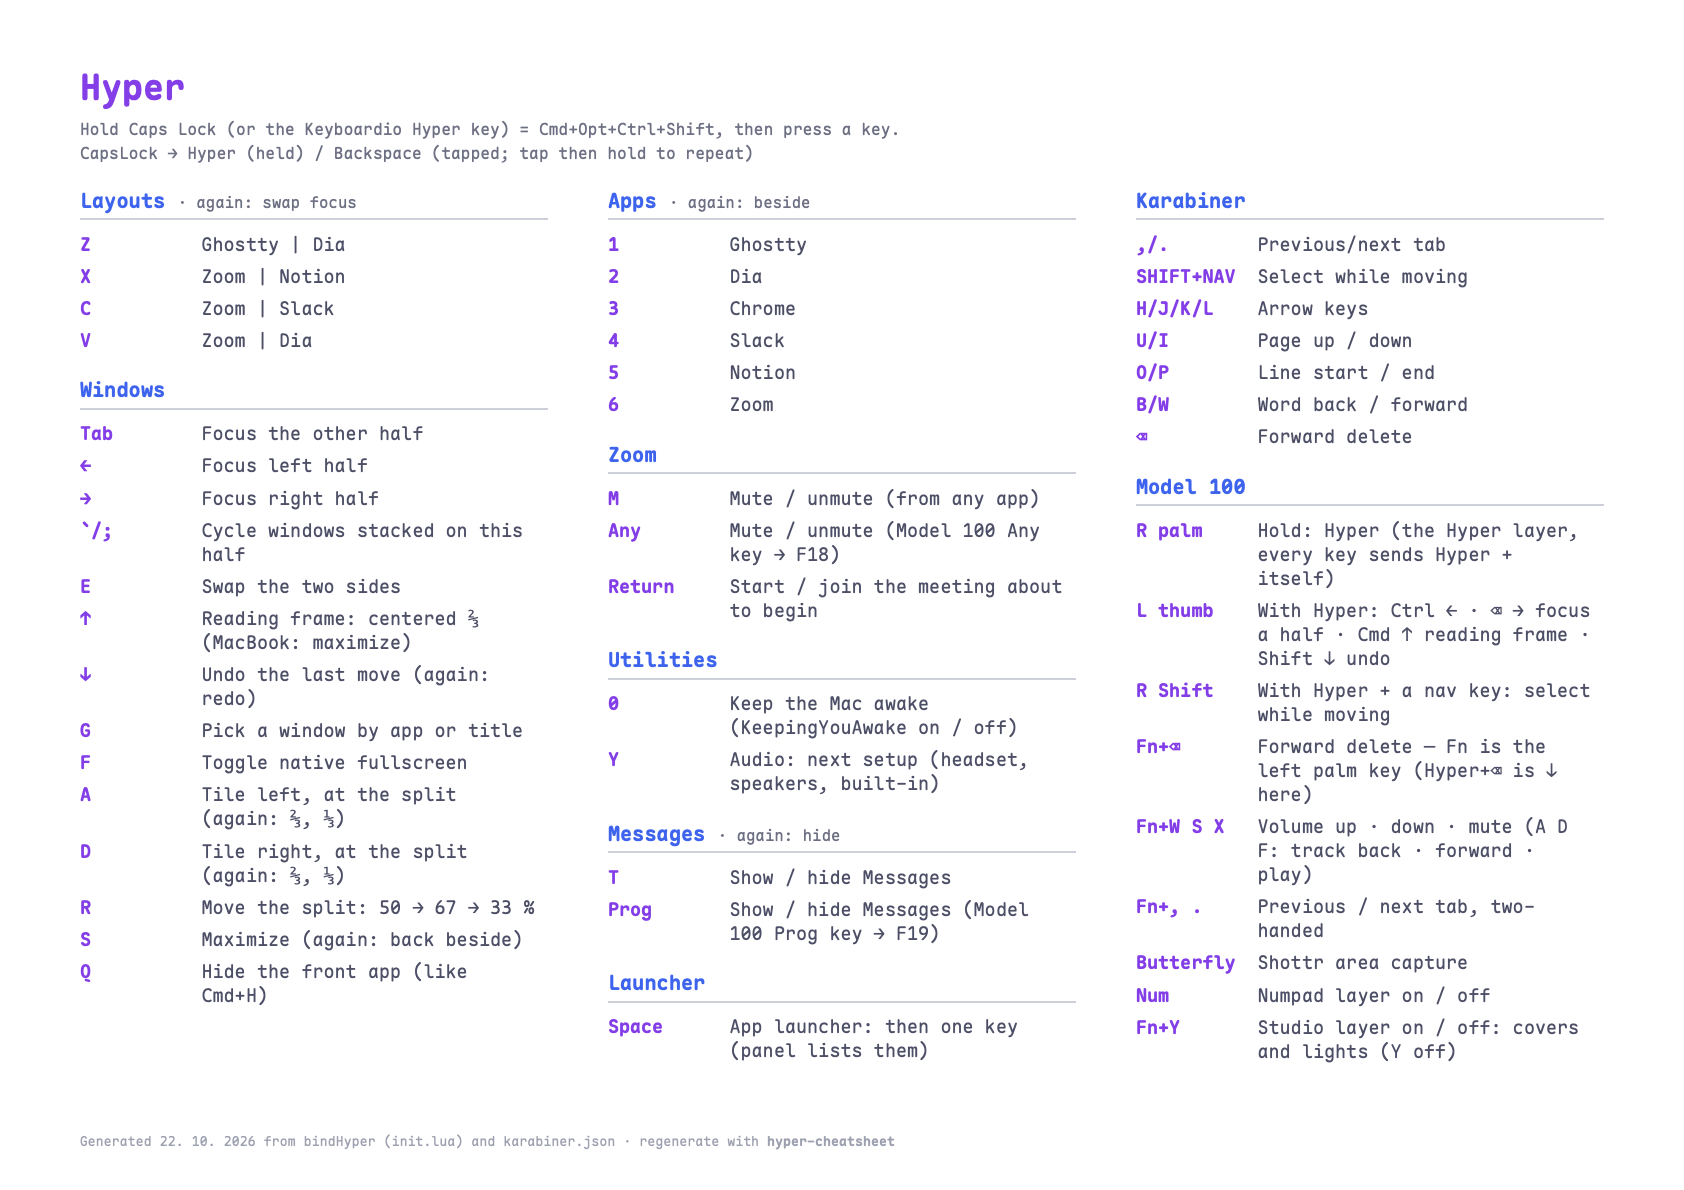
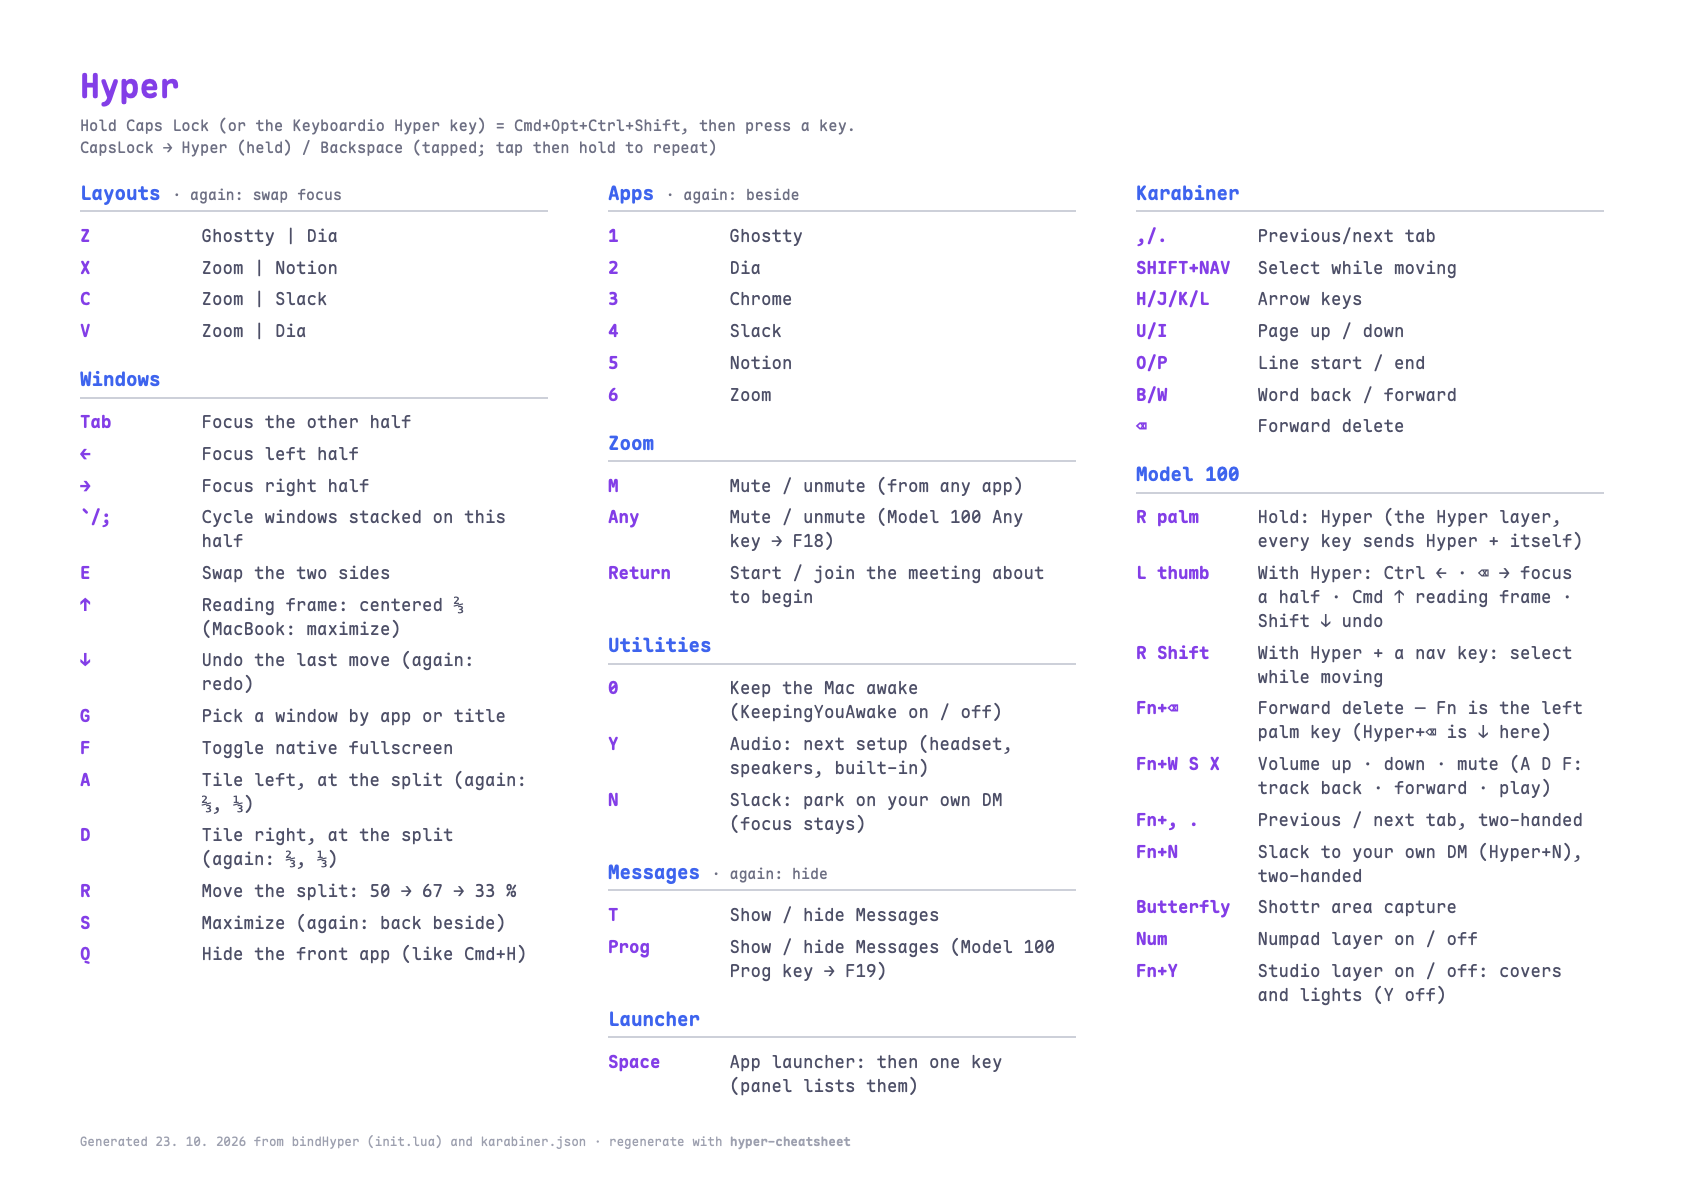
Hammerspoon: park Slack on your own DM so nothing gets marked read
Slack marks messages read as they arrive in the conversation it has
open, so a channel left open marks things read you never saw. Your own
DM gets nothing new. Hyper+N (Fn+N on the Model 100, where Hyper and N
are both right-hand keys) parks Slack there, and it parks itself after
2 minutes in the background with no Slack window visible; one still in
view, beside a call, is left alone, and coming back cancels it.

Parking presses the DM's sidebar entry through accessibility, found by
the DM's conversation id: that works while Slack is hidden and keeps
focus where it is. A slack:// link would pull Slack forward (it
activates itself for every link, open -g or not), so only Hyper+N falls
back to it. The ids stay out of this repo, in
~/.config/slack/self-dm.local.

Claude-Session: https://claude.ai/code/session_01Knz54w2BFhTidMjD5WDZnB

diff --git a/GUIDE.md b/GUIDE.md
@@ -1102,6 +1102,7 @@ The **Function layer** (hold the left palm key):
 | W / S · X | Volume up / down · Mute |
 | A / D · F | Previous / next track · Play/Pause |
 | `,` / `.` | Previous / next tab (sends Hyper+`,` / `.`) |
+| N | Slack to your own DM (sends Hyper+N) |
 | `` ` `` · ⌫ | Tab · Forward delete |
 | Y | **Studio layer** on (below); Y again turns it off |
 
@@ -1262,6 +1263,7 @@ Hyper page carries this table):
 | Fn+⌫ | Forward delete — Fn is the left palm key (Hyper+⌫ is ↓ here) |
 | Fn+W S X | Volume up · down · mute (A D F: track back · forward · play) |
 | Fn+, . | Previous / next tab, two-handed |
+| Fn+N | Slack to your own DM (Hyper+N), two-handed |
 | Butterfly | Shottr area capture |
 | Num | Numpad layer on / off |
 | Fn+Y | Studio layer on / off: covers and lights (Y off) |
@@ -1770,6 +1772,45 @@ part of their name (`AUDIO` in `init.lua`): "PodMic" is a guess at the new
 mic's name, so check it once it's plugged in. Cameras are each app's own
 setting, not the system's, so Zoom picks the Insta360 or the built-in camera
 by itself.
+
+### Slack: park on your own DM (Hammerspoon)
+
+| Shortcut | Action |
+|---|---|
+| Hyper + N | Slack to your own DM, without bringing it forward |
+| Fn + N (Model 100) | Same, two-handed: Hyper and N are both right-hand keys there |
+
+Slack marks messages read as they arrive in the conversation it has open,
+so a channel left open can mark things read you never saw. Your own DM gets
+nothing new, which makes it the safe place to leave Slack. Hyper+N parks it
+there, and Slack also parks itself once it has been in the background for
+2 minutes (`SLACK_PARK_AFTER`) with no Slack window visible: hidden,
+minimized or fully covered. A Slack window still in view, beside Zoom say,
+is left alone and checked again every 2 minutes. Coming back to Slack
+within the delay cancels it, so jumping back and forth doesn't park.
+
+Parking presses the DM's entry in Slack's sidebar through accessibility,
+which works while Slack is hidden and doesn't bring it forward. A
+`slack://` link would: Slack activates itself for every link, even one
+opened with `open -g`. The entry is found by the DM's conversation ID, so
+it survives a rename. It's in your **Starred** section here, which keeps it
+near the top of the sidebar (Slack only builds the rows it shows). If the
+entry can't be pressed, Hyper+N opens the link instead, bringing Slack
+forward; the automatic park just skips that round, rather than pull Slack
+over a call.
+
+The IDs are work details, so they stay out of this repo, in
+`~/.config/slack/self-dm.local`:
+
+```
+team T0XXXXXXX
+dm   D0XXXXXXXXX
+```
+
+The team ID is the `T…` part of the address when Slack is open in a
+browser (`app.slack.com/client/T…/…`). The DM's ID is the last part of its
+link (right-click your DM in the sidebar → Copy link → `…/archives/D…`).
+Without the file Hyper+N says so and nothing parks.
 
 ### Reloading
 

diff --git a/README.md b/README.md
@@ -59,7 +59,7 @@ what to watch out for.
 |---|---|---|
 | Hyper key, nav layer | [Karabiner-Elements](https://karabiner-elements.pqrs.org/) — Caps Lock is Hyper when held, Backspace when tapped | `config/karabiner/` |
 | Keyboardio Model 100 | Firmware keymap with a lit Hyper layer and a Studio layer for the room's Shelly covers and lights — `keyboardio-layers`, `keyboardio-backup` | `config/keyboardio/model100.json` |
-| Windows, apps, cheatsheet | [Hammerspoon](https://www.hammerspoon.org/) — layouts, app focus, Messages, Zoom mute and join, audio setups that follow the headset and the dock, a link router (work → Chrome, rest → Dia); reloads on save | `config/hammerspoon/` |
+| Windows, apps, cheatsheet | [Hammerspoon](https://www.hammerspoon.org/) — layouts, app focus, Messages, Zoom mute and join, audio setups that follow the headset and the dock, Slack parked on your own DM so nothing gets marked read, a link router (work → Chrome, rest → Dia); reloads on save | `config/hammerspoon/` |
 
 **Editors and Git**
 
@@ -179,7 +179,7 @@ scripts keep it in the repo (quit Chrysalis first — it holds the port):
   binary a config shells out to has a Brewfile entry. It also runs the
   Hammerspoon tests: the real config under a fake `hs`, window keys pressed
   against fake windows, audio devices plugged in and out, the Studio keys'
-  Shelly requests, and the Hyper layer checked for collisions with
+  Shelly requests, Slack's parking, and the Hyper layer checked for collisions with
   Karabiner and for a GUIDE row per key. A macOS job checks every
   Brewfile formula and cask still exists (and isn't disabled or deprecated),
   links everything into an empty `$HOME`, and validates the Ghostty config.

diff --git a/CLAUDE.md b/CLAUDE.md
@@ -120,7 +120,8 @@ A PostToolUse hook (`.claude/hooks/check-config.sh`) validates each edited file
   (`mock.lua`): window keys pressed against fake windows and screens
   (`windows_test.lua`), audio setups switched as fake devices come and go
   (`audio_test.lua`), the Studio layer's Shelly requests (`studio_test.lua`),
-  and the Hyper layer checked for collisions, the
+  Slack parked on your own DM (`slack_test.lua`), and the Hyper layer
+  checked for collisions, the
   cheatsheet description form and a GUIDE.md row per key
   (`bindings_test.lua`). Run it after changing Hammerspoon, `karabiner.json`
   or GUIDE.md; the hook doesn't, as it never executes repo code. A
